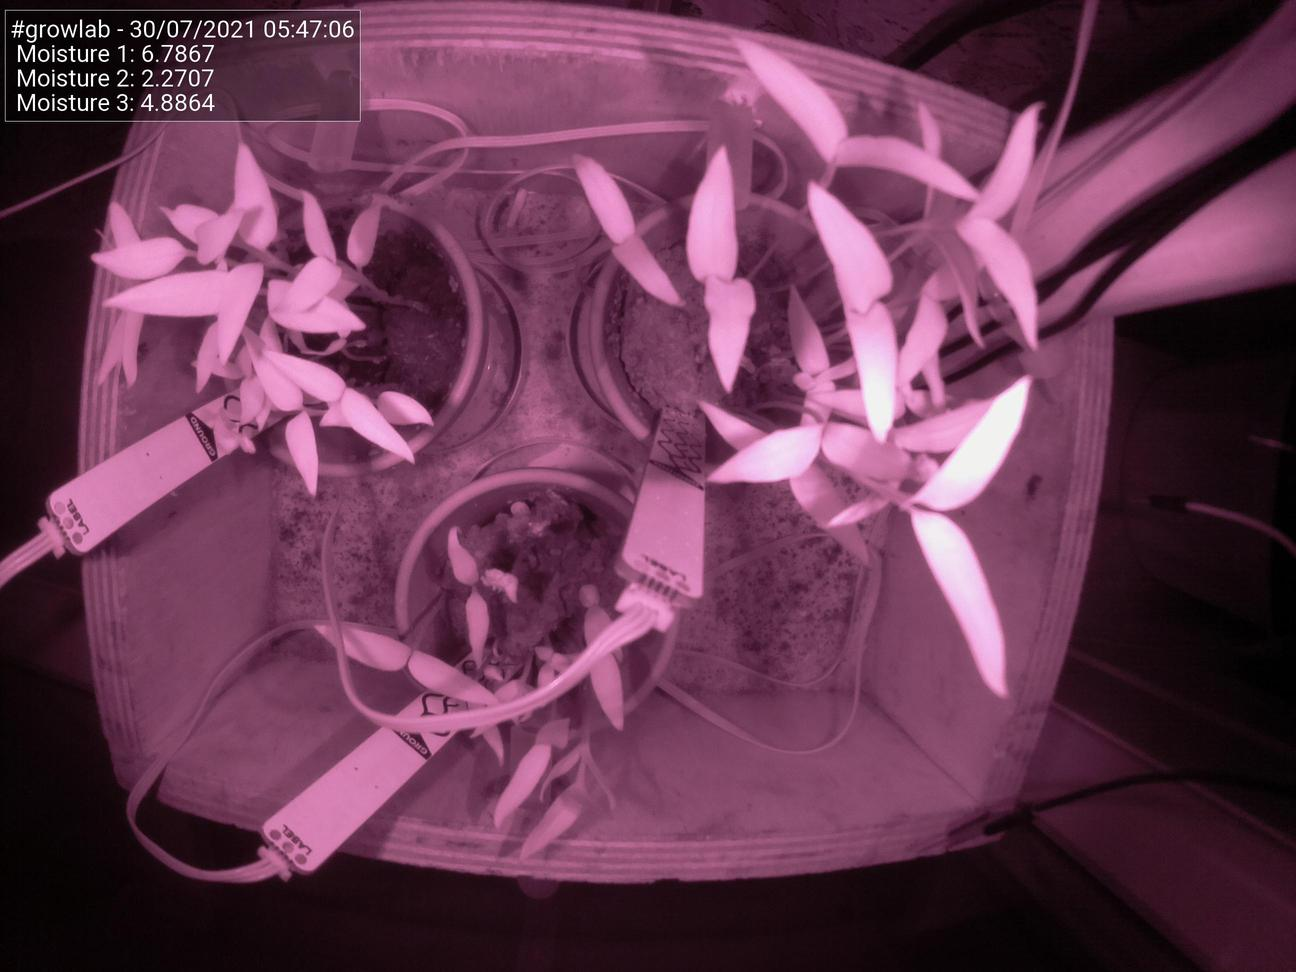
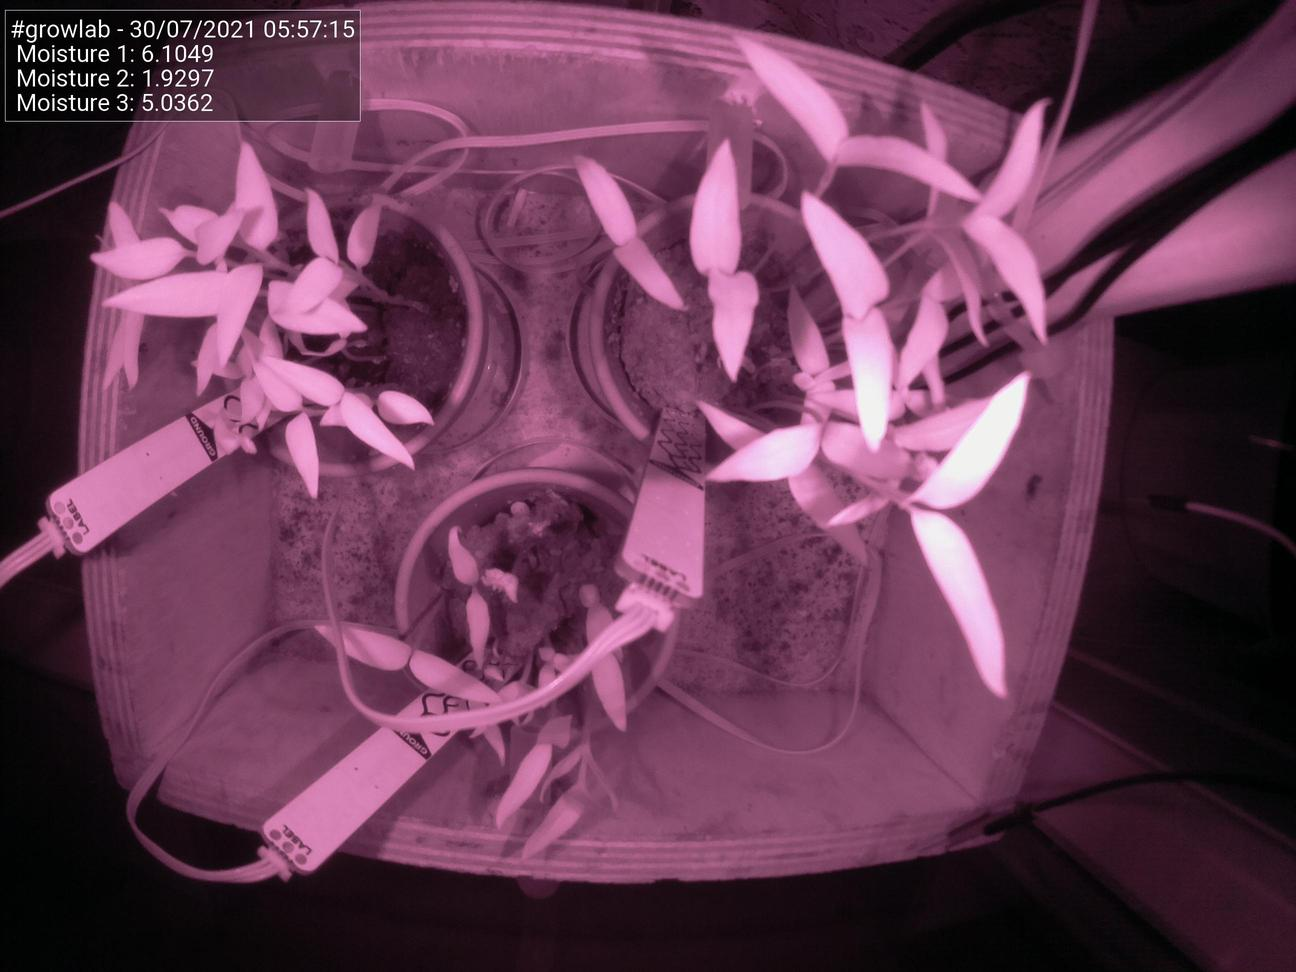
Update images at Fri 30 Jul 05:57:21 BST 2021

diff --git a/docs/index.html b/docs/index.html
@@ -51,25 +51,25 @@
                                 <td>Date</td>
                                 <td>30/07/2021</td>
                                 <td>Time</td>
-                                <td>05:47:06</td>
+                                <td>05:57:15</td>
                             </tr>
                             <tr>
                                 <td>Temperature</td>
                                 <td>N/A</td>
                                 <td>Moisture 1</td>
-                                <td>6.7867</td>
+                                <td>6.1049</td>
                             </tr>
                             <tr>
                                 <td>Humidity</td>
                                 <td>N/A</td>
                                 <td>Moisture 2</td>
-                                <td>2.2707</td>
+                                <td>1.9297</td>
                             </tr>
                             <tr>
                                 <td>Pressure</td>
                                 <td>N/A</td>
                                 <td>Moisture 3</td>
-                                <td>4.8864</td>
+                                <td>5.0362</td>
                             </tr>
                         </tbody>
                     </table>
@@ -77,7 +77,7 @@
 
                 <h5>Latest image</h5>
                 <div style="width: 85%;">
-                            <img class="figure-img img-fluid rounded" src="./preview.jpg?uid=1627620431.7375135">
+                            <img class="figure-img img-fluid rounded" src="./preview.jpg?uid=1627621041.6089835">
                 </div>
             </div>
         </div>
